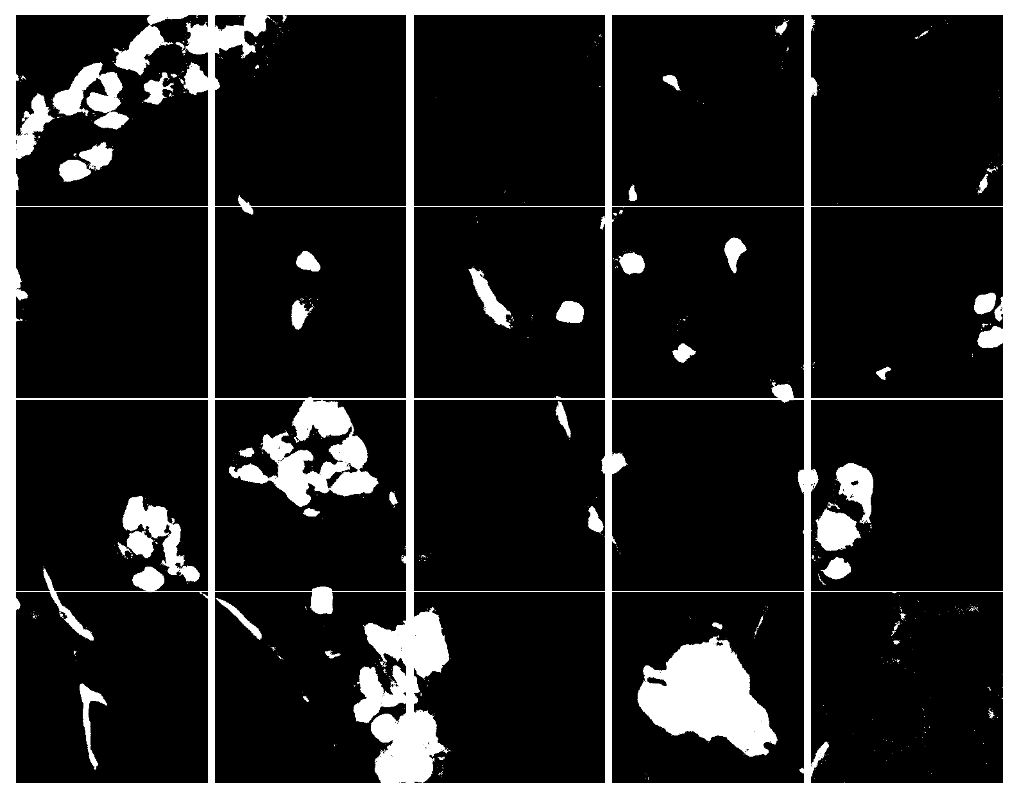
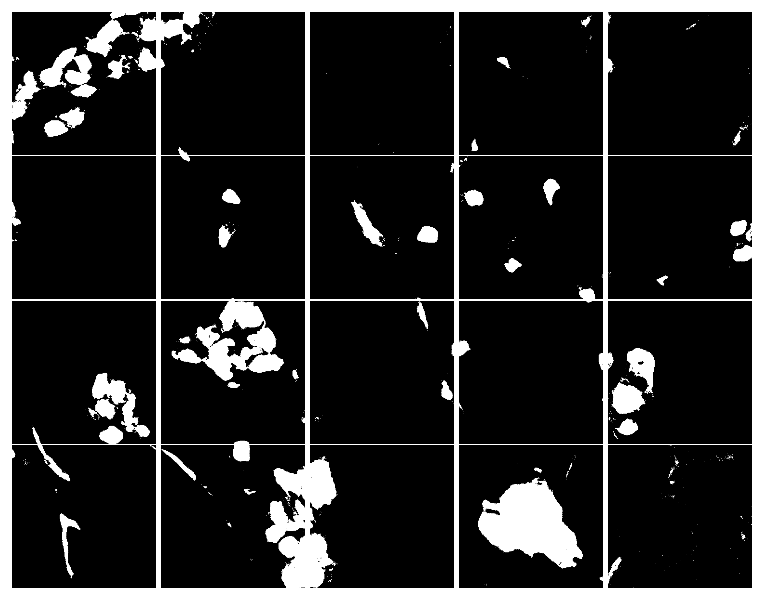
update

diff --git a/machine_learning/image_segmentation.py b/machine_learning/image_segmentation.py
@@ -61,7 +61,7 @@ for i in range(nr):
   	plt.imshow(x<cutoff, cmap='gray')
   	cancer_cell_area = (x < cutoff).sum() / float(ksize_rows * ksize_cols)
   	print('processed {},{} patch, {}, cancer cell area: {}.'.format(i,j, i*nc+j, cancer_cell_area),file=sys.stderr)
-plt.savefig('image_patches_gray.png', bbox_inches='tight',dpi=160)
+plt.savefig('image_patches_gray.png', bbox_inches='tight',dpi=120)
 
 #patch1 = tf.reshape(image_patches[0,0,0,], [ksize_rows, ksize_cols, 3])
 #patch1_gray = sess.run(tf.squeeze(tf.image.rgb_to_grayscale(patch1)))

diff --git a/machine_learning/extract_image_patches.py b/machine_learning/extract_image_patches.py
@@ -94,7 +94,8 @@ image_patches = tf.extract_image_patches(image, ksizes, strides, rates, padding)
 # Method 2:
 fig = plot_image_patches2(image_patches, sess)
 
-plt.savefig('image_patches.png', bbox_inches='tight',dpi=300) # use dpi to control image size, e.g. 800
+#plt.savefig('image_patches.png', bbox_inches='tight',dpi=300) # use dpi to control image size, e.g. 800
+plt.savefig('image_patches.png', bbox_inches='tight',dpi=120) # use dpi to control image size, e.g. 800
 
 plt.close(fig)
 
